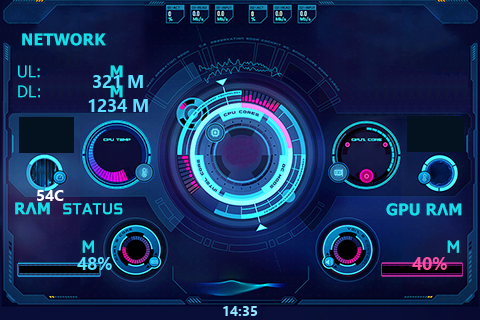
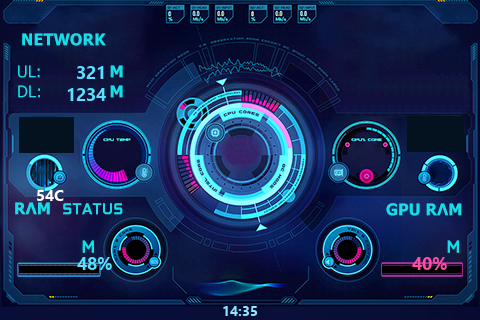
Passo 8: remove unidade duplicada em NZXT (RAM) e MagicBlue (rede)

Changed region(s): [[0.125, 0.1875, 0.3125, 0.375]]

diff --git a/core/theme_presets.py b/core/theme_presets.py
@@ -170,10 +170,11 @@ def magic_blue() -> Theme:
               background_image="assets/backgrounds/LandscapeMagicBlue_0_480x320.png")
     W = t.widgets
     # NETWORK (topo esquerdo)
-    W.append(_val(118, 68, "net_up_kbps", "#59E0FF", unit=" M", fmt="{:.0f}",
-                  size=18, bold=True))
-    W.append(_val(118, 92, "net_down_kbps", "#59E0FF", unit=" M", fmt="{:.0f}",
-                  size=18, bold=True))
+    # a arte ja traz o "M" da unidade: sem unit, valor alinhado a direita antes dele
+    for y, fld in ((59, "net_up_kbps"), (81, "net_down_kbps")):
+        w = _val(106, y, fld, "#59E0FF", unit="", fmt="{:.0f}", size=18, bold=True)
+        w.align = "right"
+        W.append(w)
     # caixas brancas (CPU nome/uso e GPU uso)
     W.append(_val(50, 130, "cpu_percent", "#04121F", unit="%", size=20))
     W.append(_val(430, 130, "gpu_percent", "#04121F", unit="%", size=20))
@@ -198,7 +199,10 @@ def nzxt() -> Theme:
     W.append(_val(135, 50, "cpu_percent", "#FFFFFF", unit="%", size=22))
     W.append(_val(315, 50, "gpu_percent", "#FFFFFF", unit="%", size=22))
     # linha 2: RAM (card esq) | SSD/disco (card dir)
-    W.append(_val(138, 150, "ram_percent", "#FFFFFF", unit="%", size=22))
+    # a arte do card de RAM ja traz o "%": sem unit, valor alinhado a direita antes dele
+    ram = _val(112, 150, "ram_percent", "#FFFFFF", unit="", size=22)
+    ram.align = "right"
+    W.append(ram)
     W.append(_val(318, 150, "disk_percent", "#FFFFFF", unit="%", size=22))
     # linha 3: UP (card esq) | DOWN (card dir)
     W.append(_val(118, 250, "net_up_kbps", "#FFFFFF", unit=" KB/s", fmt="{:.0f}",

diff --git a/tests/test_theme.py b/tests/test_theme.py
@@ -38,3 +38,15 @@ def test_temas_reais_carregam_sem_alterar():
     assert arquivos
     for a in arquivos:
         assert isinstance(Theme.load(a), Theme)
+
+
+def test_temas_do_fornecedor_sem_unidade_duplicada_na_arte():
+    """Passo 8 (A10): a arte ja traz o "%" do RAM (NZXT) e o "M" da rede (MagicBlue)."""
+    from pathlib import Path
+    pasta = Path(__file__).resolve().parent.parent / "themes"
+    nzxt = Theme.load(pasta / "NZXT.json")
+    ram = [w for w in nzxt.widgets if w.field == "ram_percent"][0]
+    assert ram.unit == ""
+    mb = Theme.load(pasta / "MagicBlue.json")
+    rede = [w for w in mb.widgets if w.field in ("net_up_kbps", "net_down_kbps")]
+    assert len(rede) == 2 and all(w.unit == "" for w in rede)
